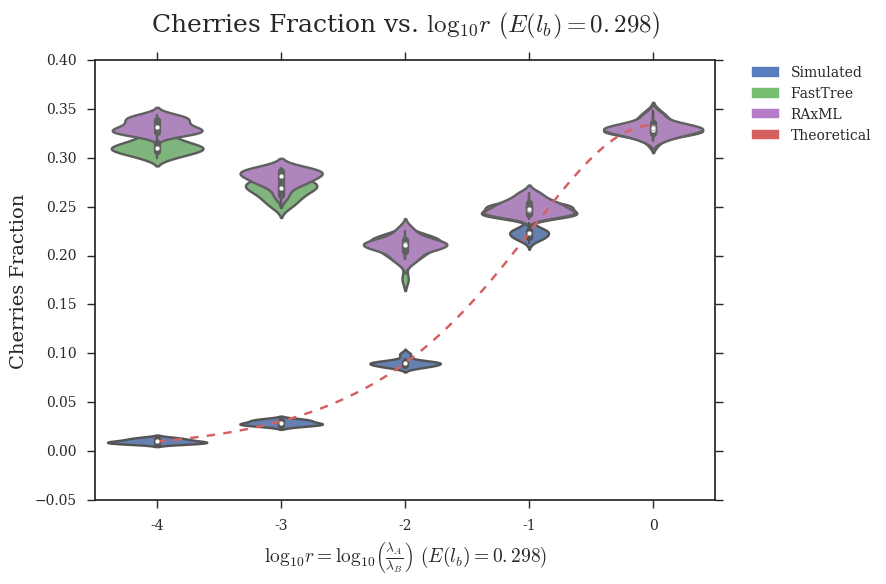
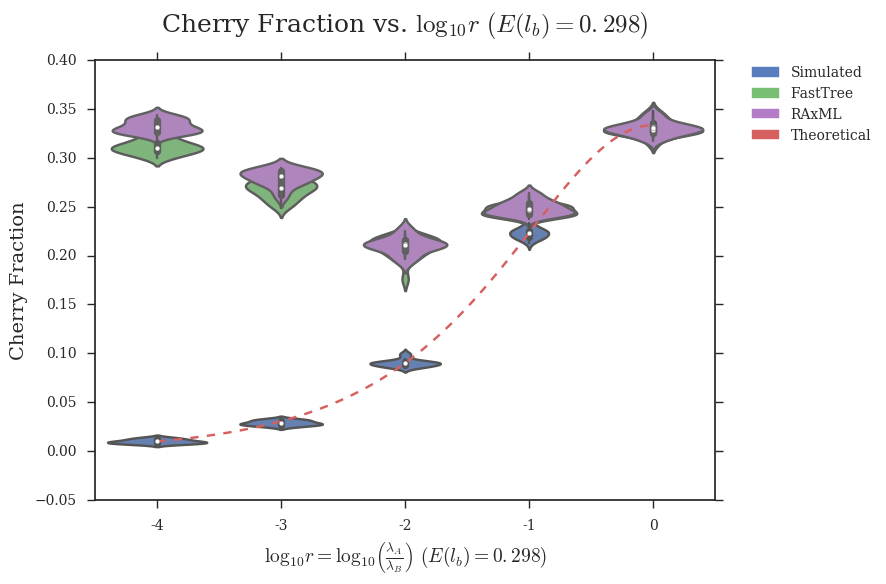
Changed "Cherries Fraction" to "Cherry Fraction"

Changed region(s): [[0.1524, 0.0, 0.7619, 0.0616], [0.0, 0.339, 0.0305, 0.6164]]

diff --git a/figures/scripts/1_cherries-vs-params.py b/figures/scripts/1_cherries-vs-params.py
@@ -199,7 +199,7 @@ g_raxml    = {'gammarate':np.array([2.952]*20+[5.904]*20+[29.518]*20+[147.591]*2
              ).astype(float)/1000} # divide by number of leaves to get percentage
 '''
 
-# plot cherries fraction vs. r (with different lambda = lambdaA+lambdaB to keep expected branch length constant)
+# plot Cherry Fraction vs. r (with different lambda = lambdaA+lambdaB to keep expected branch length constant)
 fig = plt.figure()
 x = np.array([-4,-3,-2,-1,0])
 ax = sns.violinplot(x='r',y='cherries',data=pd.DataFrame(r_original),order=x,color=pal['simulated'])
@@ -209,13 +209,13 @@ x = np.linspace(-4,0,100)
 plt.plot(x+4,cherries_vs_r(10**x),label='Theoretical',linestyle='--',color=pal['theoretical'])
 legend = plt.legend(handles=handles,bbox_to_anchor=(1.05, 1), loc=2, borderaxespad=0.)
 sns.plt.xlabel(r'$\log_{10}{r} = \log_{10}{\left(\frac{\lambda_A}{\lambda_B}\right)}\ \left(E(l_b)=0.298\right)$',fontsize=14)
-sns.plt.ylabel('Cherries Fraction',fontsize=14)
-sns.plt.title(r'Cherries Fraction vs. $\log_{10}{r}\ \left(E(l_b)=0.298\right)$',fontsize=18,y=1.05)
+sns.plt.ylabel('Cherry Fraction',fontsize=14)
+sns.plt.title(r'Cherry Fraction vs. $\log_{10}{r}\ \left(E(l_b)=0.298\right)$',fontsize=18,y=1.05)
 sns.plt.show()
 fig.savefig('cherries-fraction_vs_r_const-exp-branch-length.png', bbox_extra_artists=(legend,), bbox_inches='tight')
 plt.close()
 
-# plot cherries fraction vs. r (with constant lambda = lambdaA + lambdaB)
+# plot Cherry Fraction vs. r (with constant lambda = lambdaA + lambdaB)
 fig = plt.figure()
 x = np.array([-4,-3,-2,-1,0])
 ax = sns.violinplot(x='r',y='cherries',data=pd.DataFrame(r2_original),order=x,color=pal['simulated'])
@@ -225,13 +225,13 @@ x = np.linspace(-4,0,100)
 plt.plot(x+4,cherries_vs_r(10**x),label='Theoretical',linestyle='--',color=pal['theoretical'])
 legend = plt.legend(handles=handles,bbox_to_anchor=(1.05, 1), loc=2, borderaxespad=0.)
 sns.plt.xlabel(r'$\log_{10}{r} = \log_{10}{\left(\frac{\lambda_A}{\lambda_B}\right)}\ \left(\lambda = \lambda_A + \lambda_B = 169\right)$',fontsize=14)
-sns.plt.ylabel('Cherries Fraction',fontsize=14)
-sns.plt.title(r'Cherries Fraction vs. $\log_{10}{r}\ \left(\lambda=\lambda_A+\lambda_B=169\right)$',fontsize=18,y=1.05)
+sns.plt.ylabel('Cherry Fraction',fontsize=14)
+sns.plt.title(r'Cherry Fraction vs. $\log_{10}{r}\ \left(\lambda=\lambda_A+\lambda_B=169\right)$',fontsize=18,y=1.05)
 sns.plt.show()
 fig.savefig('cherries-fraction_vs_r_const-lambda.png', bbox_extra_artists=(legend,), bbox_inches='tight')
 plt.close()
 
-# plot cherries fraction vs. lambda
+# plot Cherry Fraction vs. lambda
 fig = plt.figure()
 x = np.array([33.866,84.664,169.328,338.655,846.638])
 ax = sns.violinplot(x='lambda',y='cherries',data=pd.DataFrame(l_original),order=x,color=pal['simulated'])
@@ -241,13 +241,13 @@ x = np.linspace(-100,1000,1100)
 plt.plot(x,np.array([cherries_vs_r(0.01)]*len(x)),label='Theoretical',linestyle='--',color=pal['theoretical'])
 legend = plt.legend(handles=handles,bbox_to_anchor=(1.05, 1), loc=2, borderaxespad=0.)
 sns.plt.xlabel(r'$\lambda = \lambda_A + \lambda_B$',fontsize=14)
-sns.plt.ylabel('Cherries Fraction',fontsize=14)
-sns.plt.title(r'Cherries Fraction vs. $\lambda$',fontsize=18,y=1.05)
+sns.plt.ylabel('Cherry Fraction',fontsize=14)
+sns.plt.title(r'Cherry Fraction vs. $\lambda$',fontsize=18,y=1.05)
 sns.plt.show()
 fig.savefig('cherries-fraction_vs_lambda.png', bbox_extra_artists=(legend,), bbox_inches='tight')
 plt.close()
 
-# plot cherries fraction vs. length
+# plot Cherry Fraction vs. length
 fig = plt.figure()
 x = np.array([50,100,200,300,600,1200,2400,4800])
 ax = sns.violinplot(x='length',y='cherries',data=pd.DataFrame(k_original),order=x,color=pal['simulated'])
@@ -257,13 +257,13 @@ x = np.linspace(-100,5000,5100)
 plt.plot(x,np.array([cherries_vs_r(0.01)]*len(x)),label='Theoretical',linestyle='--',color=pal['theoretical'])
 legend = plt.legend(handles=handles,bbox_to_anchor=(1.05, 1), loc=2, borderaxespad=0.)
 sns.plt.xlabel('Sequence Length',fontsize=14)
-sns.plt.ylabel('Cherries Fraction',fontsize=14)
-sns.plt.title('Cherries Fraction vs. Sequence Length',fontsize=18,y=1.05)
+sns.plt.ylabel('Cherry Fraction',fontsize=14)
+sns.plt.title('Cherry Fraction vs. Sequence Length',fontsize=18,y=1.05)
 sns.plt.show()
 fig.savefig('cherries-fraction_vs_length.png', bbox_extra_artists=(legend,), bbox_inches='tight')
 plt.close()
 
-# plot cherries fraction vs. gamma rate
+# plot Cherry Fraction vs. gamma rate
 fig = plt.figure()
 x = np.array([2.952,5.904,29.518,147.591,295.182,float('inf')])
 ax = sns.violinplot(x='gammarate',y='cherries',data=pd.DataFrame(g_original),order=x,color=pal['simulated'])
@@ -273,8 +273,8 @@ x = np.linspace(-100,1000,5000)
 plt.plot(x,np.array([cherries_vs_r(0.01)]*len(x)),label='Theoretical',linestyle='--',color=pal['theoretical'])
 legend = plt.legend(handles=handles,bbox_to_anchor=(1.05, 1), loc=2, borderaxespad=0.)
 sns.plt.xlabel(r'Gamma Distribution Rate $\left(\alpha\right)$',fontsize=14)
-sns.plt.ylabel('Cherries Fraction',fontsize=14)
-sns.plt.title('Cherries Fraction vs. Deviation from Ultrametricity',fontsize=18,y=1.05)
+sns.plt.ylabel('Cherry Fraction',fontsize=14)
+sns.plt.title('Cherry Fraction vs. Deviation from Ultrametricity',fontsize=18,y=1.05)
 sns.plt.show()
 fig.savefig('cherries-fraction_vs_gammarate.png', bbox_extra_artists=(legend,), bbox_inches='tight')
 plt.close()
